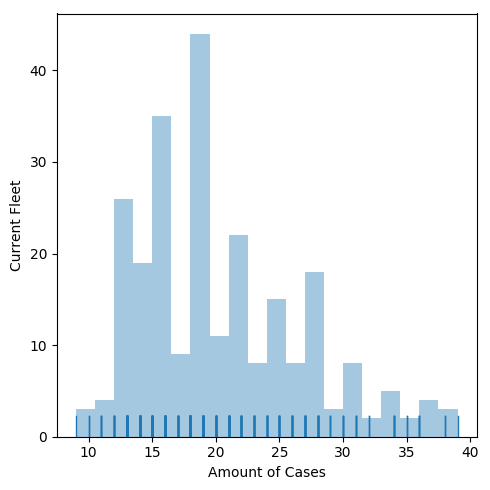
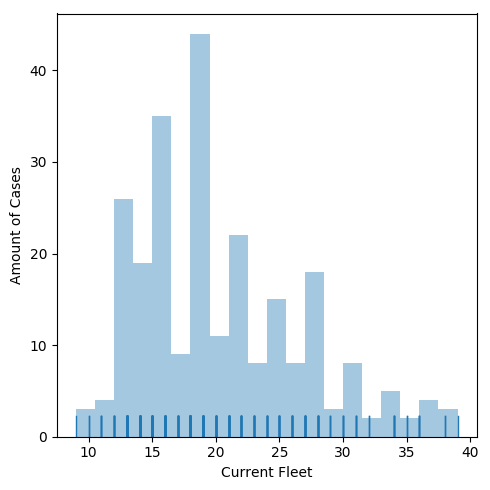
lab2

Changed region(s): [[0.0, 0.3367, 0.0612, 0.5816], [0.4286, 0.949, 0.6735, 0.9796]]

diff --git a/lab2/lab.py b/lab2/lab.py
@@ -67,8 +67,8 @@ if __name__ == "__main__":
 	sns_plot2 = sns.distplot(data0, bins=20, kde=False, rug=True).get_figure()
 
 	axes = plt.gca()
-	axes.set_xlabel('Amount of Cases')
-	axes.set_ylabel('Current Fleet')
+	axes.set_xlabel('Current Fleet')
+	axes.set_ylabel('Amount of Cases')
 
 	sns_plot2.savefig("histogram_Current_fleet.png",bbox_inches='tight')
 	sns_plot2.savefig("histogram_Current_fleet.pdf",bbox_inches='tight')
@@ -79,12 +79,12 @@ if __name__ == "__main__":
 	sns_plot2 = sns.distplot(data1, bins=20, kde=False, rug=True).get_figure()
 
 	axes = plt.gca()
-	axes.set_xlabel('Amount of Cases')
-	axes.set_ylabel('Proposed Fleet')
+	axes.set_xlabel('Proposed Fleet')
+	axes.set_ylabel('Amount of Cases')
 
 	sns_plot2.savefig("histogram_Proposed_fleet.png",bbox_inches='tight')
 	sns_plot2.savefig("histogram_Proposed_fleet.pdf",bbox_inches='tight')
-	
+	"""
 	# Bootstrap for the "Current fleet column"
 	data = data0
 	boots = []
@@ -122,4 +122,4 @@ if __name__ == "__main__":
 
 	sns_plot.savefig("bootstrap_confidence_Proposed.png",bbox_inches='tight')
 	sns_plot.savefig("bootstrap_confidence_Proposed.pdf",bbox_inches='tight')
-	
+	"""
